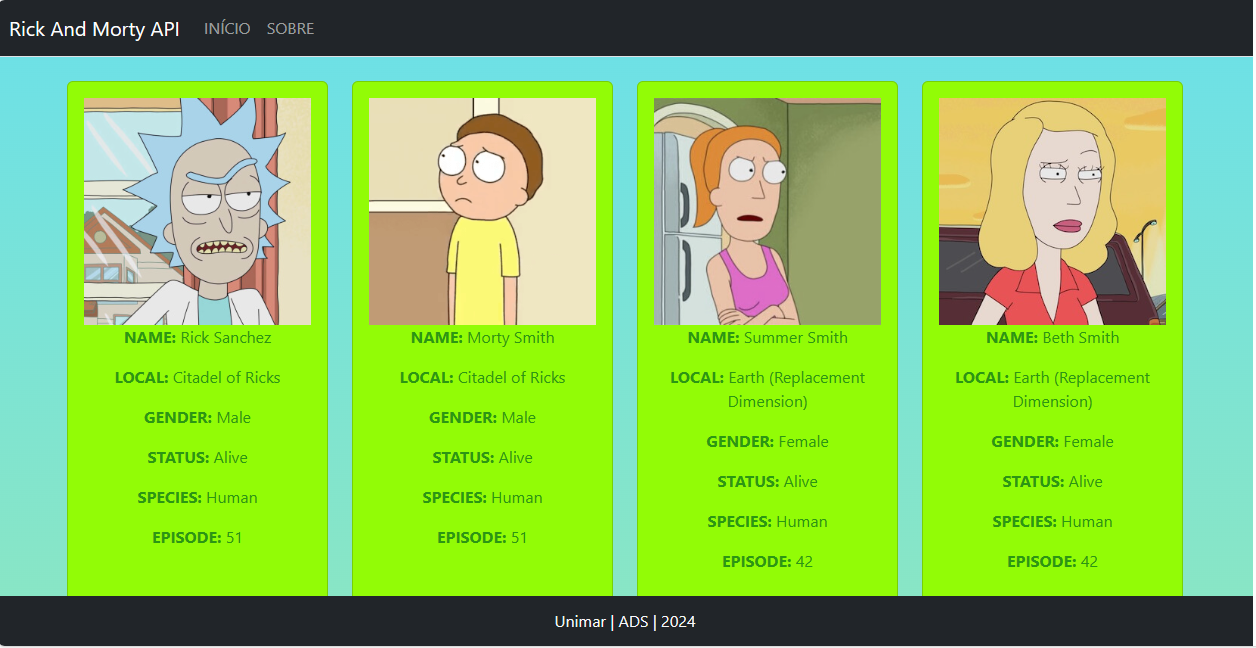
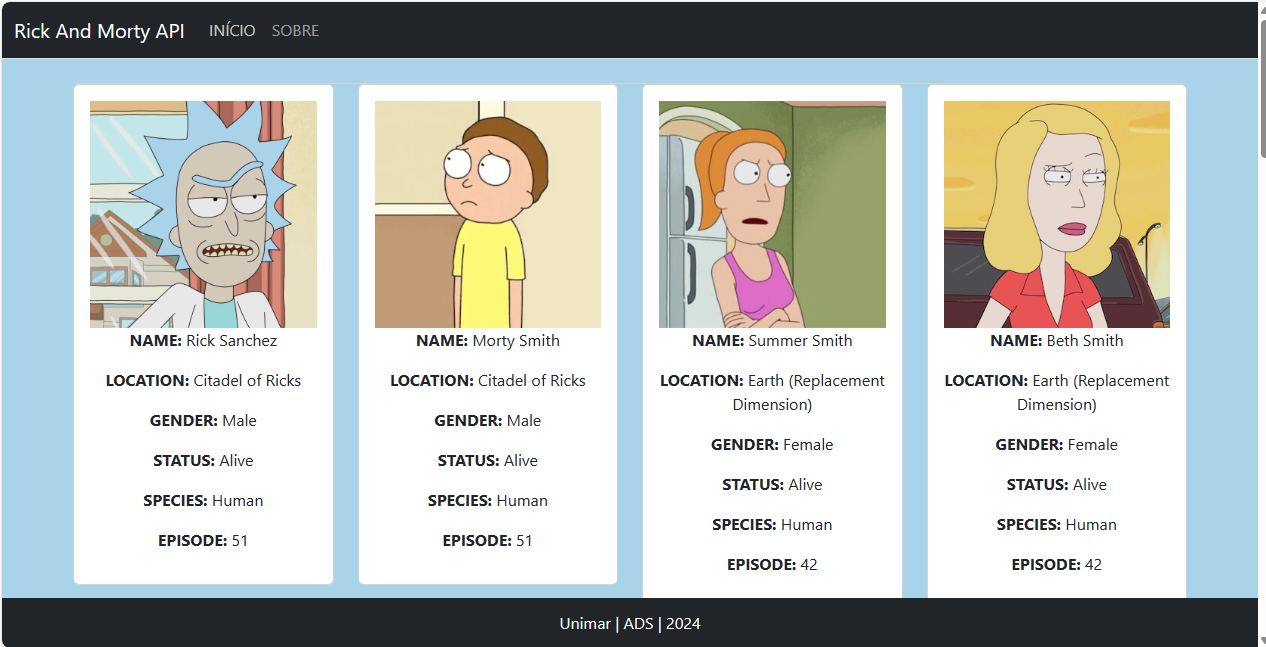
Add files via upload

diff --git a/src/components/ListRickMorty.vue b/src/components/ListRickMorty.vue
@@ -16,18 +16,25 @@ const personagem = defineProps(["name", "id", "image", "location", "gender", "st
     </div>
 </template>
 
-<style scoped>
+<style>
 
-body {
-    background: linear-gradient(to bottom, #6be0e9, #f7fa3f);
+body.pagina-b {
+  background: linear-gradient(to bottom, #6be0e9, #d9f344); /* Gradiente de fundo para a página B */
 }
 
 .col-md-3 {
-    background-color: #ffffff00;
+    background-color: rgba(107, 225, 233, 0);
 }
+/* body{
+    background-color: rgb(169, 211, 233);
+}
+.col-md-3 {
+    background-color: rgb(168, 211, 233);
+} */
 
 .card{
-    background-color:  rgb(146, 252, 6);
+    background-color:  rgb(149, 255, 0);
+    
 }
 
 .text-center{

diff --git a/src/App.vue b/src/App.vue
@@ -6,7 +6,7 @@ import {ref} from 'vue'
 <template>
   <nav class="navbar navbar-expand-lg navbar-dark bg-dark border-bottom border-body">
     <div class="container-fluid">
-      <router-link class="navbar-brand" to="/">Rick and Morty API</router-link>
+      <router-link class="navbar-brand" to="/">Rick And Morty API</router-link>
       <button class="navbar-toggler" type="button" data-bs-toggle="collapse" data-bs-target="#navbarNav" aria-controls="navbarNav" aria-expanded="false" aria-label="Toggle navigation">
         <span class="navbar-toggler-icon"></span>
       </button>

diff --git a/src/views/AboutView.vue b/src/views/AboutView.vue
@@ -1,5 +1,6 @@
 <template>
-  <center>
+
+    <center>
     <div class="card card_a">
   <div class="row no-gutters">
     <div class="col-md-4">
@@ -20,21 +21,24 @@
   </div>
 </div>
 </center>
+
+  
   
 </template>
 
 <style>
+body {
+  background-color: #6be0e9;
+}
+
 .card_a{
   width: 680px;
   height: 350px;
-  background-color: #fff;
+  background-color: #ffffff;
   justify-content: center;
   align-items: center;
   margin-top: 100px;
   border-radius: 20px;
 }
 
-body{
-  background-color: #6be0e9;
-}
 </style>

diff --git a/src/views/HomeView.vue b/src/views/HomeView.vue
@@ -12,10 +12,11 @@ onMounted(() => {
     console.log(personagens)
   })
 })
+
 </script>
 
 <template>
-  <main>
+  <main style="background: linear-gradient(to bottom, #6be0e9, #d9f344)">
     <div class="container">
             <div class="card-body mt-4 mb-8 row" style="padding: 0;">
               <ListRick 
@@ -33,3 +34,4 @@ onMounted(() => {
           </div>
   </main>
 </template>
+

diff --git a/index.html b/index.html
@@ -12,4 +12,9 @@
     <script type="module" src="/src/main.js"></script>
     <script src="https://cdn.jsdelivr.net/npm/bootstrap@5.3.3/dist/js/bootstrap.bundle.min.js" integrity="sha384-YvpcrYf0tY3lHB60NNkmXc5s9fDVZLESaAA55NDzOxhy9GkcIdslK1eN7N6jIeHz" crossorigin="anonymous"></script>
   </body>
+  <style>
+
+  
+  </style>
+  
 </html>

diff --git a/README.md b/README.md
@@ -1,10 +1,5 @@
 # rick_and_morty
 
-## Prints
-
-<img src="/prints/About.png">
-<img src="/prints/Home.png">
-
 This template should help get you started developing with Vue 3 in Vite.
 
 ## Recommended IDE Setup
